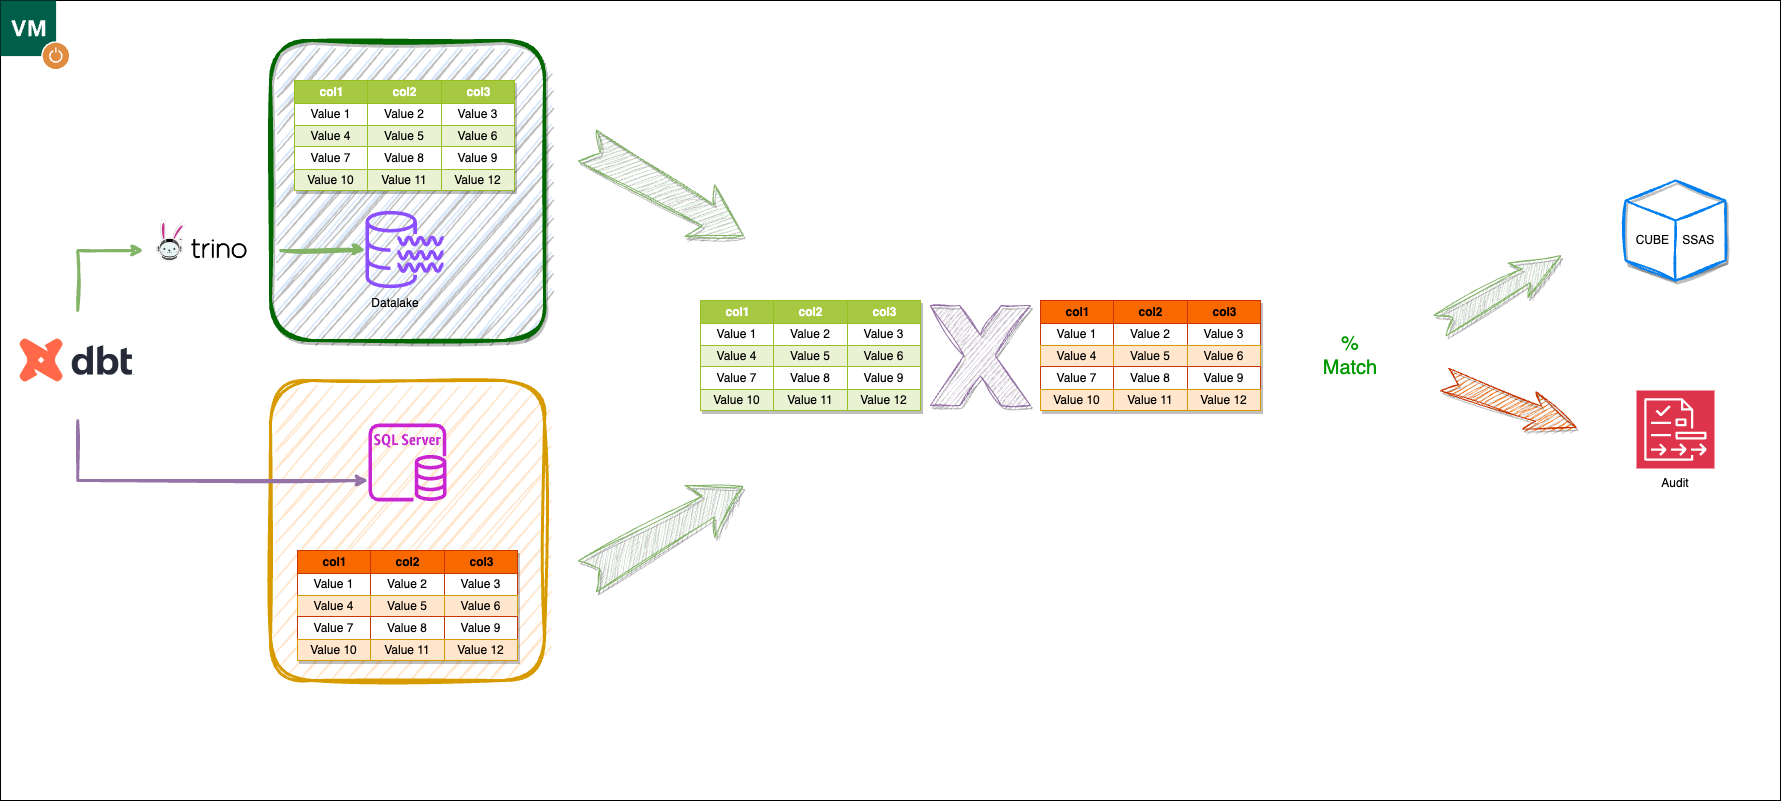
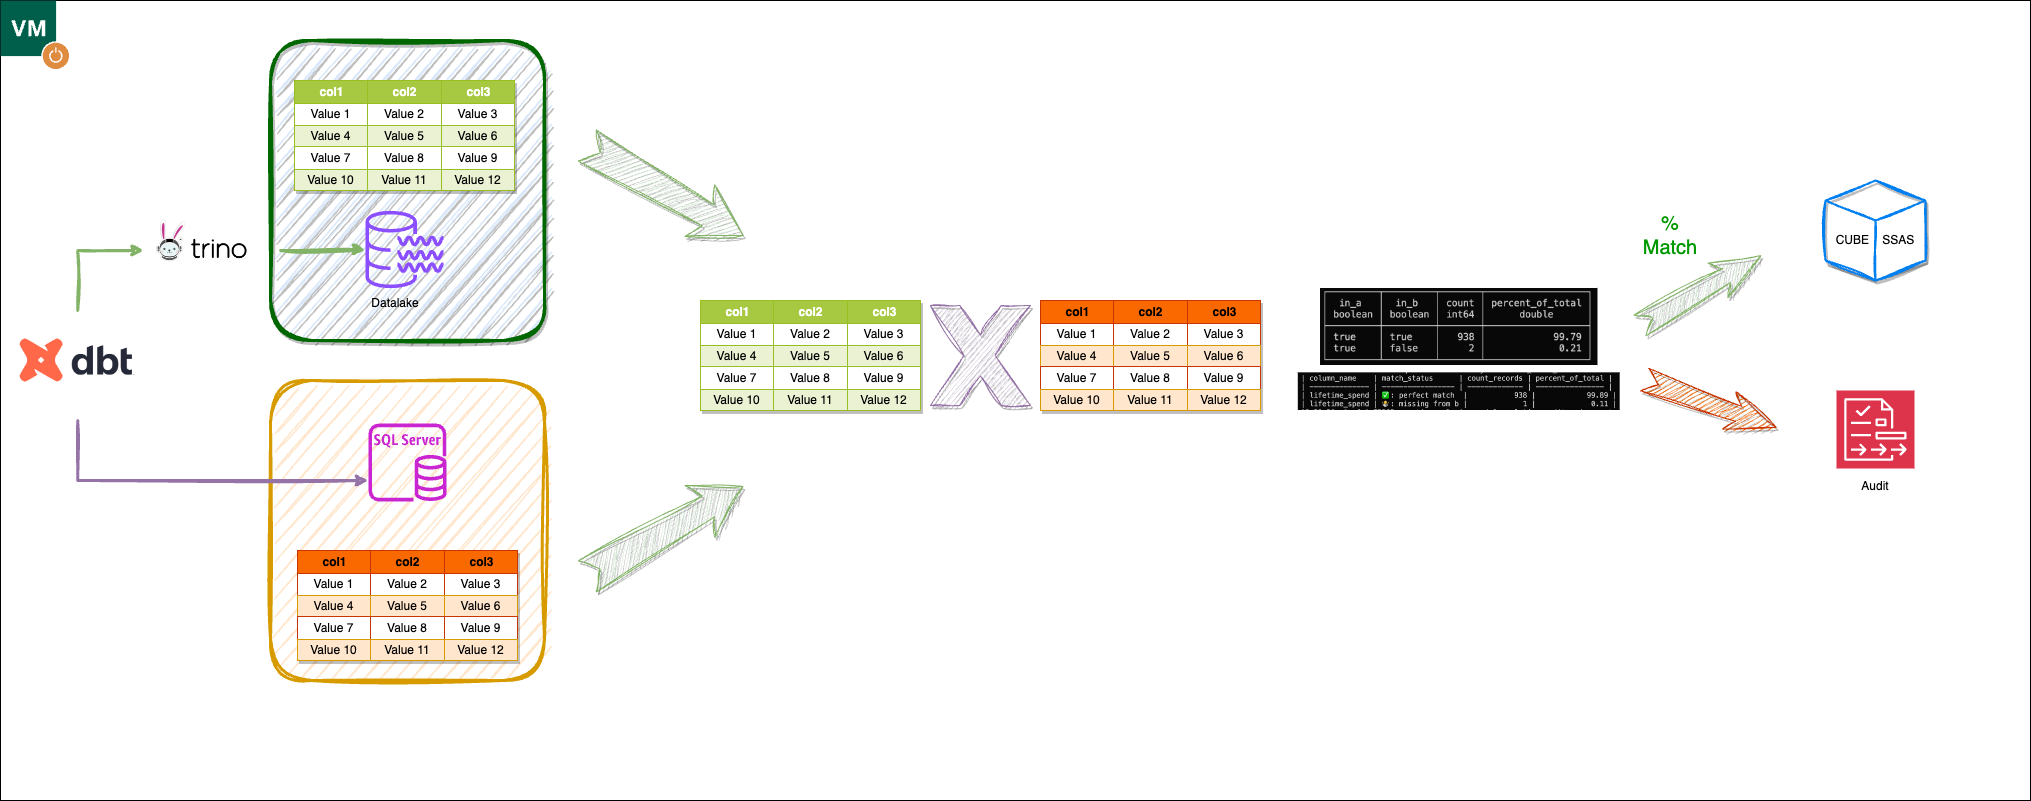
add project for data contract

diff --git a/content/projects/BiDataContract.md b/content/projects/BiDataContract.md
@@ -1,13 +1,13 @@
 ---
-date: '2021-05-02'
-title: 'Continuous Integration & Continuous Delivery pour data pipeline en Scala/Spark'
+date: '2022-09-30'
+title: 'BI Data Contract'
 github: ''
-external: '/pensieve/cicd/'
+external: '/pensieve/data-contract/'
 tech:
-  - Maven
-  - Ansible
-  - Github
-  - Jenkins
+  - dbt
+  - trino
+  - sqlserver
+  - audit
 company: 'Societe Generale'
 showInProjects: true
 ---
